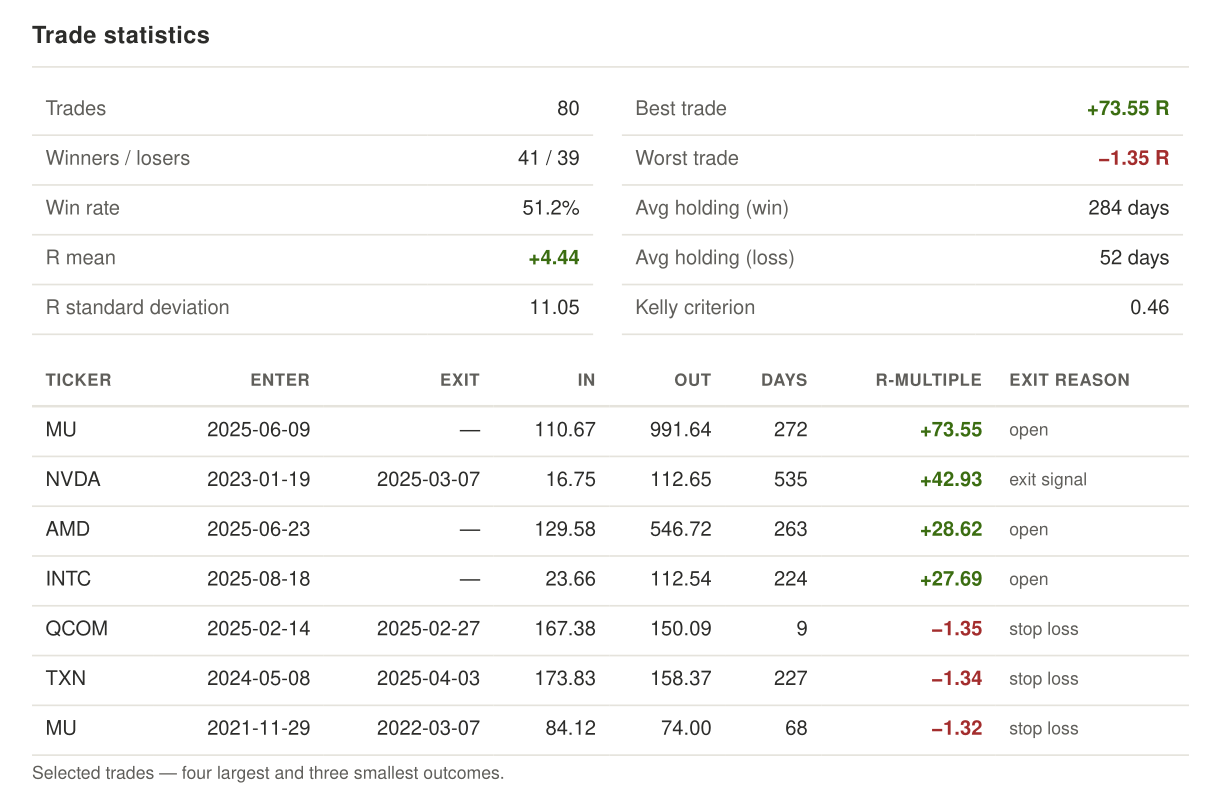
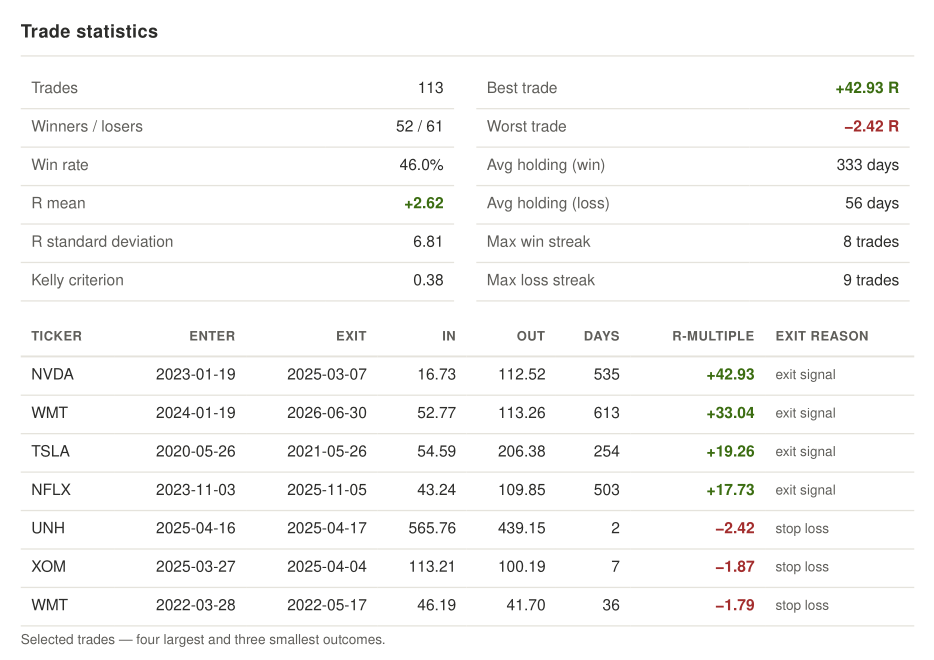
updated example images

diff --git a/README.md b/README.md
@@ -1,4 +1,4 @@
-# TradeSysX
+# TradeSysX <img src="docs/examples/TSX.png" alt="TradeSysX logo" align="left" width="90">
 
 TradeSysX (**T**rading **S**ystem e**X**plorer) is a toolkit for backtesting mechanical trading systems. It downloads historical OHLC (Open-High-Low-Close) data
 from [Yahoo Finance](https://finance.yahoo.com/), applies a configurable entry/exit/stoploss strategy,
@@ -198,8 +198,6 @@ For each simulated trade series, the simulation samples a series with the length
 In the picture below, a Monte Carlo simulation with 10 000 iterations was run. Starting with the configured starting balance in the trading account, only 5% of all resampled sequences have been plotted (for clarity, configurable with the `plot_frac` parameter). However, the numbers in the figure represent the values obtained for the full set. On the right-hand side of the figure, the median outcome (solid line) as well as the 95 and 5 percentile markers are shown, with the account value at each percentile given between the round brackets. If configured, the dashed line for the benchmark value (buy &amp; hold) is also shown. To accommodate for a very skewed outcome distribution, the y-axis is cut off from a value above 4 times the standard deviation from the median, which is set by the `outlier` parameter.
 
 <img src="docs/examples/monte_carlo_plot.png" alt="Monte Carlo simulation" width="900">
-
-<img src="docs/examples/sim_table.png" alt="Monte Carlo simulation statistics table" width="900">
 
 In the table above some additional computed values for the full set of resampled sequences are displayed, of which the average and maximum loss streak, and the maximum drawdown percentage might be of interest.
 